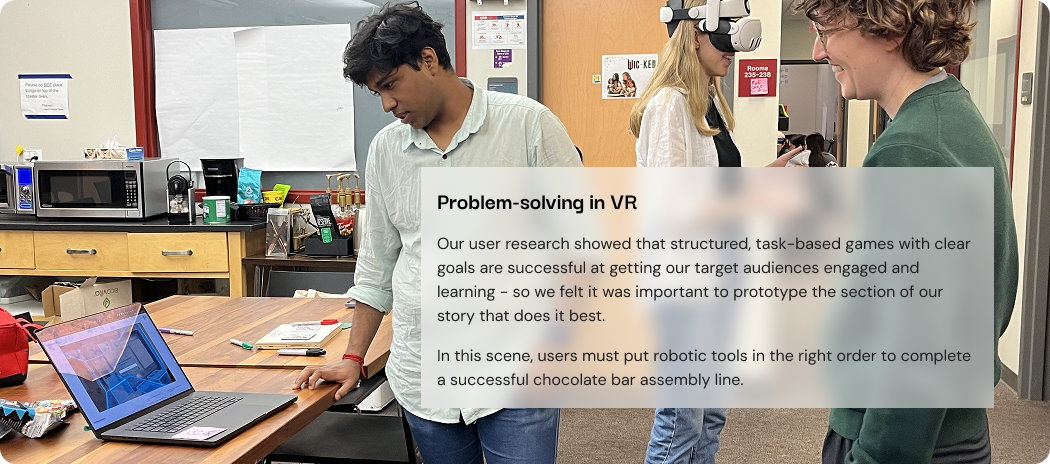
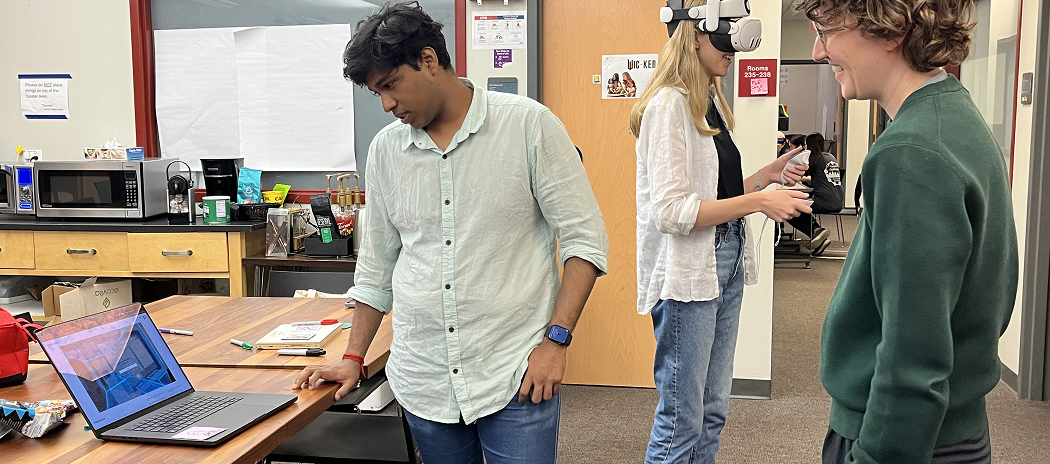
feat: restore v21 from v17
Update project files and components to reflect v21 state.

#VERCEL_SKIP

diff --git a/manufacturing-landing.tsx b/manufacturing-landing.tsx
@@ -54,11 +54,6 @@ export default function Component() {
       date: "April 6, 2025",
     },
     {
-      src: "/placeholder.svg?height=400&width=600",
-      title: "Spring Presentation Skit",
-      date: "April 19, 2025",
-    },
-    {
       src: "/images/spring pres.png",
       title: "Spring Presentation",
       date: "April 21, 2025",
@@ -74,7 +69,7 @@ export default function Component() {
       date: "July 21, 2025",
     },
     {
-      src: "/placeholder.svg?height=400&width=600",
+      src: "/images/xena.png",
       title: "Our Team Mascot, Xena :)",
      
     },
@@ -680,22 +675,7 @@ export default function Component() {
                       />
                     </div>
 
-                    <div className="bg-[#1e1e1e] text-[#ffffff] p-6 rounded-lg">
-                      <h4 className="font-semibold mb-4">What should the VR environment look and feel like?</h4>
-                      <p className="text-sm mb-4 leading-relaxed">
-                        We tested how immersive VR environments could look and feel. We created several robot
-                        workstations, as our test settings showed factory and machine space design.
-                      </p>
-                      <p className="text-sm mb-4 leading-relaxed">
-                        Across 8 participants familiar with automation, we measured engagement, satisfaction, focus, and
-                        perceived credibility. The immersive setting with just the right amount of detail was most
-                        effective, and often there is a strong, even distributed for "fun" and "serious."
-                      </p>
-                      <p className="text-sm leading-relaxed">
-                        Design Principle: Credibility is paramount when it comes to trust, but realism remains crucial,
-                        especially for operators like those we met at Automate.
-                      </p>
-                    </div>
+                    
                   </div>
                 </div>
               </div>
@@ -790,18 +770,7 @@ export default function Component() {
                       />
                     </div>
 
-                    <div className="bg-[#1e1e1e] text-[#ffffff] p-6 rounded-lg">
-                      <h4 className="font-semibold mb-4">Problem-solving in VR</h4>
-                      <p className="text-sm mb-4 leading-relaxed">
-                        Our user research showed that structured, task-based games with clear goals are successful at
-                        getting our target audience engaged and learning – so we felt it was important to prioritize the
-                        action of our story that does it best.
-                      </p>
-                      <p className="text-sm leading-relaxed">
-                        In this scene, users must put robotic tools in the right order to complete a successful
-                        chocolate bar assembly line.
-                      </p>
-                    </div>
+                    
                   </div>
 
                   {/* Creating the VR Problem-Solving Task */}
